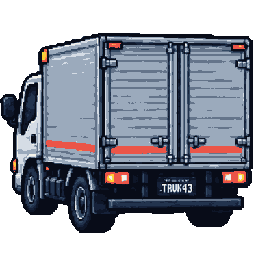
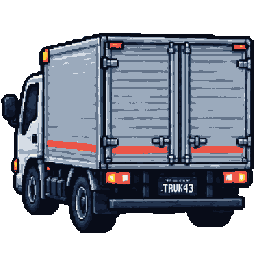
fix: audit horizontal vehicle sprite bounds
Audit all 25 vehicle sprite horizontal alpha bounds, apply the one lossless +1 px X correction to truck Left, and record the seven remaining true source-clipping blockers without introducing runtime compensation.

diff --git a/Docs/05-Planning/Task-Backlog.md b/Docs/05-Planning/Task-Backlog.md
@@ -114,16 +114,16 @@ M5 is executed in dependency slices defined by [`M5-Presentation-and-Production-
 
 **M5A status:** production foundation complete. Canonical palette tokens, pixel-art config, runtime asset tree, Boot preload/error boundary, landscape-only browser shell, touch-layout contract and player visual-steering contract are established and validated. Production touch controls, final HUD clipping validation and Batch A+ assets remain open. Traffic production now additionally follows the `256 x 256` five-yaw contract in [`../01-Design/Traffic-Sprite-Angle-Specification.md`](../01-Design/Traffic-Sprite-Angle-Specification.md).
 
-**M5B status:** runtime Batch A integration is implemented and structurally validated: all 27 standard Batch A images load with frozen source dimensions, four traffic visual identities map to the existing three behavior classes, five-yaw traffic presentation derives from projected road tangent, player binary steering traverses moderate/hard poses, city far/mid authored parallax is active, and M3 collision/near-miss regression remains clean. All 25 player/traffic PNGs are now re-registered in-source to the canonical visual base `Y=232` using integer pixel translation only; post-fix asset analysis and representative 960x540 browser rendering pass. M5.6/M5.8 remain open for horizontal transparent-bound cleanup, remaining family visual approval and human all-zone gameplay-speed readability.
+**M5B status:** runtime Batch A integration is implemented and structurally validated: all 27 standard Batch A images load with frozen source dimensions, four traffic visual identities map to the existing three behavior classes, five-yaw traffic presentation derives from projected road tangent, player binary steering traverses moderate/hard poses, city far/mid authored parallax is active, and M3 collision/near-miss regression remains clean. All 25 player/traffic PNGs are re-registered in-source to visual base `Y=232`. Horizontal-bound audit found one safely correctable edge-touch (`traffic_truck_rear_left.png`, translated `+1 px` X) and seven true clipped source frames: player `Hard Left/Left/Right/Hard Right`, hatchback `Hard Left/Right`, and van `Hard Right`. Representative static 960x540 city/rural/forest/mountain-pass/tunnel renders remain structurally readable. M5.6/M5.8 stay open until those seven sources are re-exported without crop and final family/human gameplay-speed review passes.
 
 - [ ] M5.1 Implement touch steering/throttle/brake controls.
 - [ ] M5.2 Verify orientation/aspect-ratio scaling behavior after production touch/HUD surfaces exist; M5A structural shell checks already cover 16:9, phone-wide, 4:3 and portrait fallback.
 - [ ] M5.3 Add optional gamepad mapping if it does not delay mobile completion.
 - [x] M5.4 Establish the `Night Courier 20` palette tokens in code/asset documentation before final sprite production.
 - [x] M5.5 Create runtime asset directories and lock naming/pivot conventions from `Asset-Inventory-and-Sprite-Requirements.md`.
-- [ ] M5.6 Produce/import Asset Batch A: five `256 x 256` player steering poses, complete `256 x 256` five-yaw families for at least three traffic identities (standard target: taxi, hatchback, van, truck = 20 traffic frames), plus city far/mid backgrounds. Runtime import and vertical source registration are complete; horizontal transparent-bound cleanup/full visual approval remains open.
+- [ ] M5.6 Produce/import Asset Batch A: five `256 x 256` player steering poses, complete `256 x 256` five-yaw families for at least three traffic identities (standard target: taxi, hatchback, van, truck = 20 traffic frames), plus city far/mid backgrounds. Runtime import and vertical source registration are complete; seven source frames remain horizontally clipped and require re-export before full visual approval.
 - [x] M5.7 Implement traffic five-yaw presentation selection and map every visual/yaw frame back to the existing `car`/`van`/`truck` behavior classes without adding AI/physics states; traffic display scale remains pseudo-3D projected rather than fixed 256px.
-- [ ] M5.8 Validate player and traffic readability against representative `city`, `forest`, `mountain-pass` and `tunnel` compositions at gameplay speed, including stable yaw-family registration and no collision/near-miss regression. Vertical registration, structural/browser checks and M3 regression pass; horizontal bounds/full family visual approval and human all-zone gameplay-speed readability remain open.
+- [ ] M5.8 Validate player and traffic readability against representative `city`, `forest`, `mountain-pass` and `tunnel` compositions at gameplay speed, including stable yaw-family registration and no collision/near-miss regression. Vertical registration, static representative city/rural/forest/mountain-pass/tunnel browser checks and M3 regression pass; seven clipped sources plus continuous human gameplay-speed/family approval remain open.
 - [ ] M5.9 Produce/import Asset Batch B: approximately 15–18 reusable roadside/environment props shared across all five zones, prioritizing streetlight, guardrail, utility pole, tree cluster, rock/cliff cluster, chevron, tunnel portal/light and core signage.
 - [ ] M5.10 Add remaining shared background/parallax images while keeping the initial target at approximately **5–7 images total** across all outdoor zones; tunnel should normally reuse procedural enclosure instead of extra background stacks.
 - [ ] M5.11 Add timer/score/cargo/combo HUD polish using procedural text/bars plus only the required 5–8 gameplay icons.

diff --git a/Docs/06-Quality/M5-Presentation-Acceptance.md b/Docs/06-Quality/M5-Presentation-Acceptance.md
@@ -106,7 +106,7 @@ right      Y=210 -> +22 px
 hard_right Y=201 -> +31 px
 ```
 
-Post-fix analysis confirms every player frame now has visual alpha base `Y=232`, preserving a 23 px transparent margin below the vehicle. A 960x540 production-browser smoke confirmed the existing `(128,232)` Phaser origin places Center and Hard Left on the road without the previous vertical floating. Several non-center player frames still touch the horizontal canvas boundary (`X=0/255`); that is a separate transparent-bound quality issue and is **not** being hidden through runtime offsets or per-state scaling.
+Post-fix analysis confirms every player frame now has visual alpha base `Y=232`, preserving a 23 px transparent margin below the vehicle. A 960x540 production-browser smoke confirmed the existing `(128,232)` Phaser origin places Center and Hard Left on the road without the previous vertical floating. A dedicated horizontal-bound audit confirms that all four non-center player frames (`Hard Left`, `Left`, `Right`, `Hard Right`) contain contiguous opaque runs on both `X=0` and `X=255`. These are source-clipping defects, not harmless edge proximity, and cannot be repaired losslessly by horizontal translation because the silhouettes already occupy the full 256 px width. They remain explicit re-export blockers; no runtime offset or per-state scaling is used to hide them.
 
 ### 4.2 Gameplay visual acceptance
 
@@ -120,7 +120,7 @@ Runtime acceptance additionally requires:
 - [ ] no unintended smoothing or obvious fractional-scale shimmer is visible with accepted final 256px sources;
 - [ ] the player remains correctly grounded/readable over city, forest, mountain-pass and tunnel compositions.
 
-The earlier browser smoke recorded the actual texture sequence `Center -> Left -> Hard Left` under binary keyboard input and the reverse sequence on release. Post-fix 960x540 browser rendering confirms the vertical grounding defect is resolved in representative city Center/Hard-Left views. M5.6/M5.8 remain open for horizontal transparent-bound cleanup/full visual approval and human all-zone gameplay-speed readability rather than vertical registration.
+The earlier browser smoke recorded the actual texture sequence `Center -> Left -> Hard Left` under binary keyboard input and the reverse sequence on release. Post-fix 960x540 browser rendering confirms the vertical grounding defect is resolved. A later representative static render pass additionally captured city Center/Hard-Left/Hard-Right plus rural, forest, mountain-pass and tunnel Center views: player grounding/readability remained structurally clear in those captures. This is not a continuous human gameplay-speed approval, and the four clipped non-center source frames still block final M5.6/M5.8 acceptance.
 
 Do not expand to seven yaw states or pitch families before this gate fails for a documented reason.
 
@@ -160,7 +160,7 @@ van       HL 229  +3 | L 234  -2 | C 237  -5 | R 236  -4 | HR 230  +2
 truck     HL 223  +9 | L 227  +5 | C 229  +3 | R 227  +5 | HR 223  +9
 ```
 
-Post-fix analysis confirms all twenty traffic frames end at visual alpha base `Y=232` with the original visible RGBA palette preserved. This resolves the vertical contact-line variance without adding per-texture runtime offsets. Human approval of apparent scale/yaw continuity and horizontal transparent bounds remains separate M5.8 work.
+Post-fix analysis confirms all twenty traffic frames end at visual alpha base `Y=232` with the original visible RGBA palette preserved. A dedicated horizontal-bound audit then classified the remaining source edges. Taxi's four non-center frames and the other non-flagged traffic frames retain at least one transparent pixel at each horizontal edge and are tight but intact. `traffic_truck_rear_left.png` was the only losslessly correctable edge-touch case: it had a 4 px opaque run at `X=0` with 3 px spare on the opposite side, so the source was translated exactly `+1 px` on X, producing margins `1/2` without resize/resample or palette change. Three traffic frames remain true source-clipping blockers: `traffic_hatchback_rear_hard_left.png`, `traffic_hatchback_rear_right.png`, and `traffic_van_rear_hard_right.png`. Their contiguous opaque edge runs cannot be restored by translation and require source re-export/regeneration.
 
 ### 5.2 Traffic content count
 
@@ -198,7 +198,7 @@ Acceptance:
 - [x] traffic collision envelopes remain road-space gameplay data, not sprite/alpha bounds;
 - [x] M3 collision/near-miss regression tests pass after five-yaw sprite integration.
 
-Pure regression validation re-ran collision one-shot, near-miss one-shot, cargo damage and speed retention after the traffic rendering change. Representative browser renders also confirmed production traffic textures are projected in city, forest, mountain-pass and tunnel test views.
+Pure regression validation re-ran collision one-shot, near-miss one-shot, cargo damage and speed retention after the traffic rendering change. The horizontal-bound follow-up also captured representative 960x540 city, rural, forest, mountain-pass and tunnel views with visible traffic and a correctly grounded Center player. Those static structural renders pass, but continuous human gameplay-speed silhouette/yaw approval remains open, and the three clipped traffic sources above prevent final family acceptance.
 
 Do not expand traffic to pitch families or more than five yaw states without documented gameplay evidence.
 
